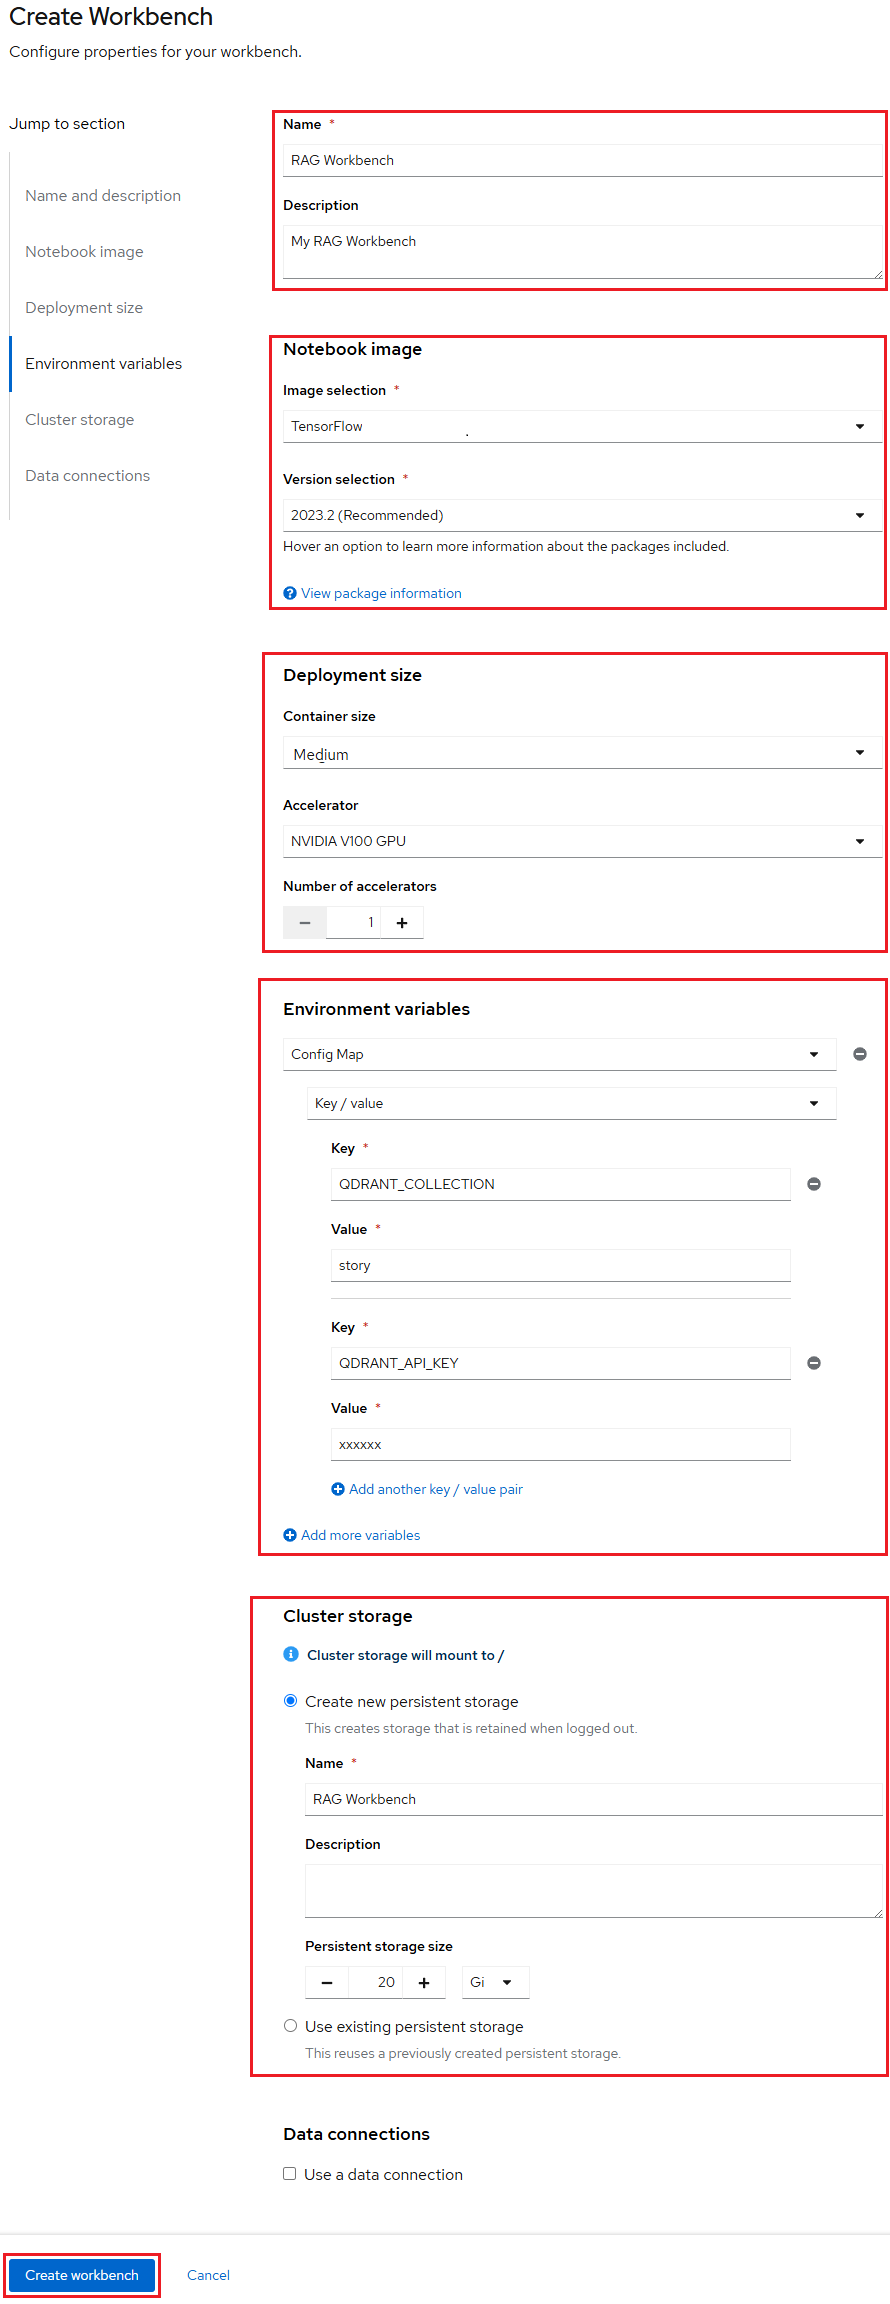
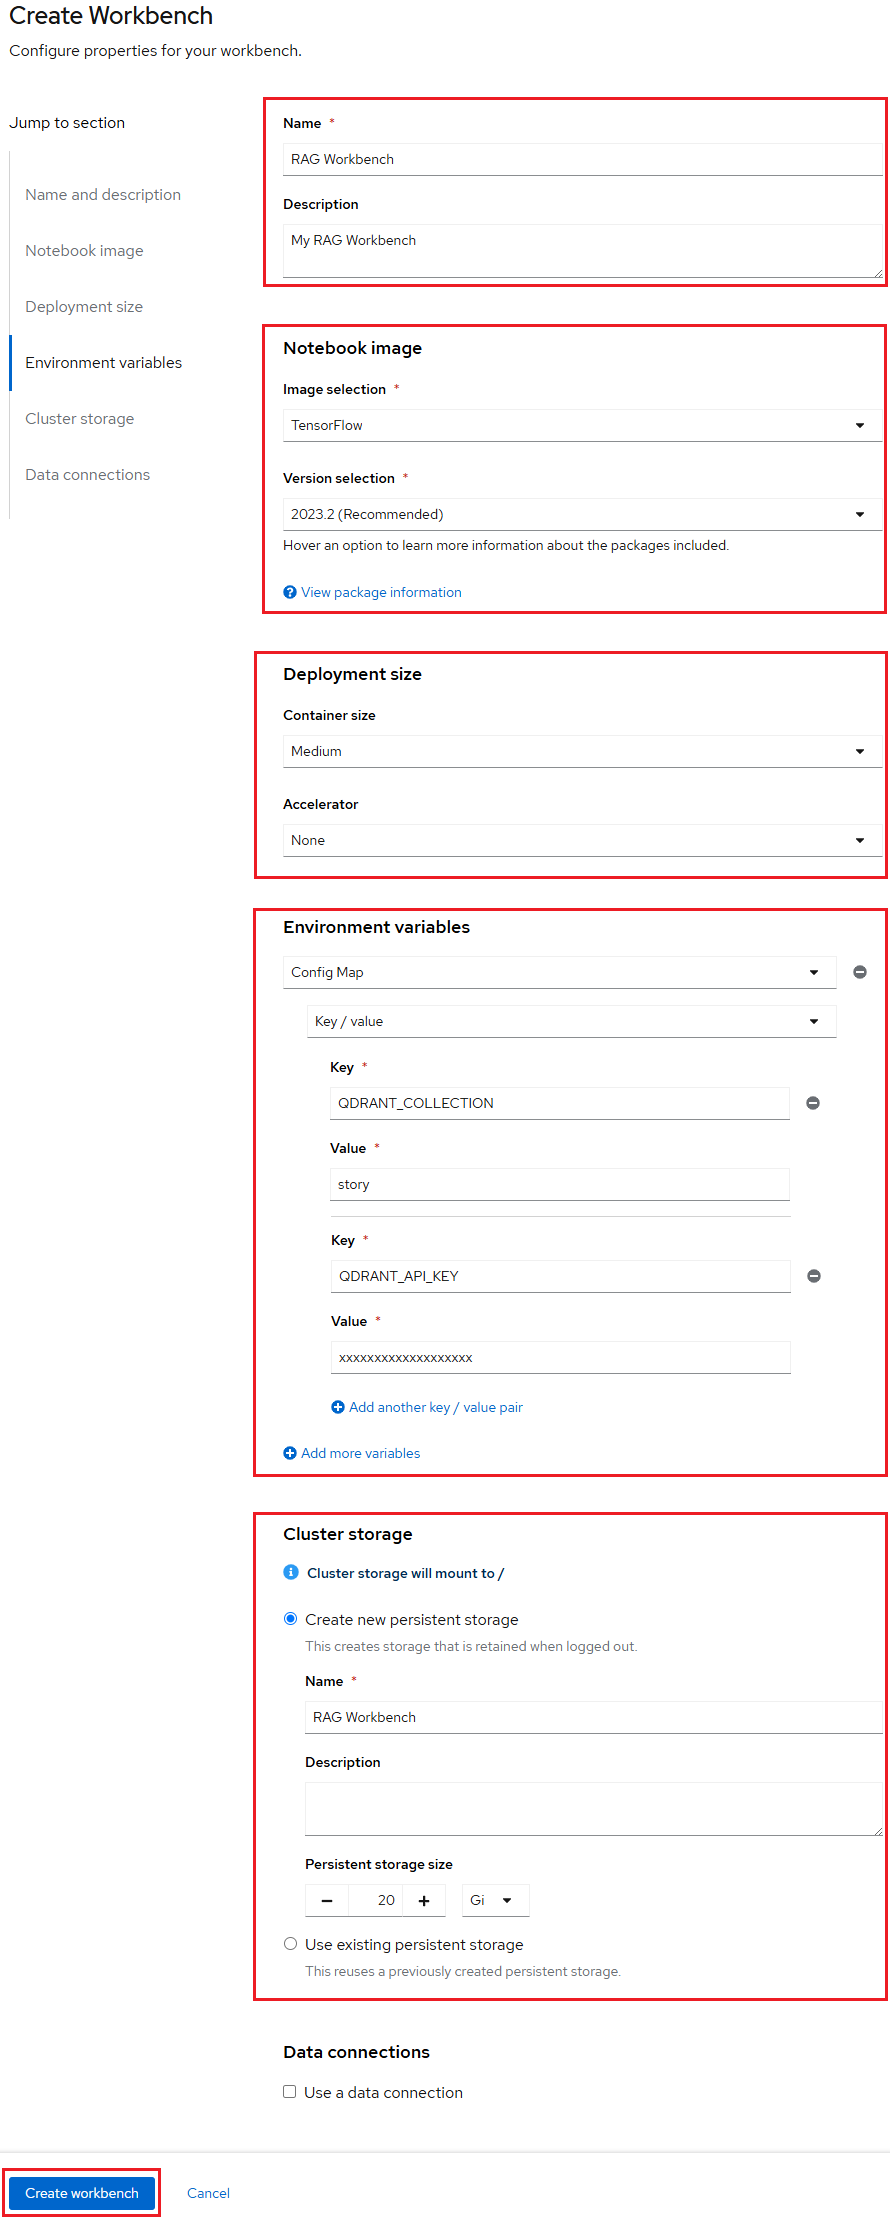
Minio setup info change

diff --git a/docs/openshift-ai/other-projects/fraud-detection-predictive-ai-app.md b/docs/openshift-ai/other-projects/fraud-detection-predictive-ai-app.md
@@ -50,7 +50,7 @@ the NERC OpenShift AI dashboard.
 For this tutorial, you will need **two S3-compatible object storage buckets**,
 such as **NERC OpenStack Container (Ceph)**, **MinIO**, or **AWS S3**. You can
 either use your own storage buckets or run a provided script that automatically
-creates the following **local MinIO storage buckets**:
+creates the following **local S3 storage (MinIO) buckets**:
 
 -   **my-storage** – Use this bucket to store your models and data. You can reuse
 this bucket and its connection for notebooks and model servers.
@@ -62,7 +62,7 @@ this bucket and its connection for notebooks and model servers.
 
 You must also create a connection to each storage bucket. For this tutorial, you
 have two options depending on whether you want to use your own storage buckets
-or a script to create local MinIO storage buckets:
+or a script to create local S3 storage (MinIO) buckets:
 
 #### 1.1. **Using your own S3-compatible storage buckets**
 
@@ -78,7 +78,7 @@ and **Pipeline Artifacts** as shown below:
 
 ![Data Connections](images/data-connections.png)
 
-#### 1.2. **Using a script to set up local MinIO storage**
+#### 1.2. **Using a script to set up local S3 storage (MinIO)**
 
 Alternatively, if you want to run a script that automates the setup by completing
 the following tasks:
@@ -115,7 +115,7 @@ iii. Verify that you selected the correct project.
 
 iv. Copy the following code and paste it into the Import YAML editor.
 
-??? note "Local MinIO storage Creation YAML Script"
+??? note "Local S3 storage (MinIO) Creation YAML Script"
 
     ```yaml
     ---
@@ -224,7 +224,7 @@ iv. Copy the following code and paste it into the Import YAML editor.
             persistentVolumeClaim:
               claimName: minio-pvc
           - emptyDir: {}
-            name: empty  
+            name: empty
     ---
     apiVersion: batch/v1
     kind: Job
@@ -497,7 +497,7 @@ will open the MinIO web console that looks like below:
     The Username and Password for the MinIO web console can be retrieved from
     the Data Connection's **Access key** and **Secret key**.
 
-iii. [Navigate back to the OpenShift AI dashboard](#navigating-to-the-openshift-ai-dashboard)
+iii. Navigate back to the OpenShift AI dashboard.
 
 a. Select Data Science Projects and then click the name of your project, i.e.
 **Fraud detection**.
@@ -545,14 +545,14 @@ buckets: **my-storage** and **pipeline-artifacts** are visible as shown below:
     For that, you need to install and configure the OpenShift CLI by
     following the [setup instructions](../../openshift/logging-in/setup-the-openshift-cli.md#installing-the-openshift-cli).
     Once the OpenShift CLI is set up, execute the following command to
-    install MinIO object storage along with local MinIO storage buckets
+    install MinIO object storage along with local S3 storage (MinIO) buckets
     and necessary data connections:
 
     `oc apply -f https://raw.githubusercontent.com/nerc-project/fraud-detection/main/setup/setup-s3.yaml`
 
 !!! tip "Clean Up"
 
-    To delete all resources if not necessary just run `oc delete -f https://raw.githubusercontent.com/nerc-project/fraud-detection/main/setup/s3-basic.yaml`
+    To delete all resources if not necessary just run `oc delete -f https://raw.githubusercontent.com/nerc-project/fraud-detection/main/setup/setup-s3.yaml`
     or `oc delete all,sa,rolebindings,pvc,job -l app=minio`.
 
 !!! danger "Important Note"
@@ -1210,7 +1210,7 @@ Set these values in the **Environment variables (runtime only)** fields:
 
 **Value:** From the RHOAI projects interface ([from the previous section](#testing-the-model-api)),
 copy the **restUrl** value and add `/v2/models/fraud/infer` to the end. For
-example: `http://modelmesh-serving.nerc-demo-xxx:8008/v2/models/fraud/infer`.
+example: `http://modelmesh-serving.<your-namespace>:8008/v2/models/fraud/infer`.
 
 ![Deployed Model Serving Inference Endpoints](images/deploy-model-inference-endpoints.png)
 

diff --git a/docs/openshift-ai/other-projects/object-detection-app-using-yolo5.md b/docs/openshift-ai/other-projects/object-detection-app-using-yolo5.md
@@ -54,7 +54,7 @@ the NERC OpenShift AI dashboard.
 For this tutorial, you will need **two S3-compatible object storage buckets**,
 such as **NERC OpenStack Container (Ceph)**, **MinIO**, or **AWS S3**. You can
 either use your own storage buckets or run a provided script that automatically
-creates the following **local MinIO storage bucket**:
+creates the following **local S3 storage (MinIO) bucket**:
 
 -   **my-storage** – Use this bucket to store your models and data. You can reuse
 this bucket and its connection for notebooks and model servers.
@@ -73,7 +73,7 @@ as shown below:
 
 ![Data Connections](images/single-data-connection.png)
 
-### 1.2. **Using a script to set up local MinIO storage**
+### 1.2. **Using a script to set up local S3 storage (MinIO)**
 
 Alternatively, if you want to run a script that automates the setup by completing
 the following tasks:
@@ -110,7 +110,7 @@ iii. Verify that you selected the correct project.
 
 iv. Copy the following code and paste it into the Import YAML editor.
 
-??? note "Local MinIO storage Creation YAML Script"
+??? note "Local S3 storage (MinIO) Creation YAML Script"
 
     ```yaml
     ---
@@ -219,7 +219,7 @@ iv. Copy the following code and paste it into the Import YAML editor.
             persistentVolumeClaim:
               claimName: minio-pvc
           - emptyDir: {}
-            name: empty  
+            name: empty
     ---
     apiVersion: batch/v1
     kind: Job
@@ -468,7 +468,7 @@ will open the MinIO web console that looks like below:
     The Username and Password for the MinIO web console can be retrieved from
     the Data Connection's **Access key** and **Secret key**.
 
-iii. [Navigate back to the OpenShift AI dashboard](#navigating-to-the-openshift-ai-dashboard)
+iii. Navigate back to the OpenShift AI dashboard.
 
 a. Select Data Science Projects and then click the name of your project, i.e.
 **Object Detection Workbench**.
@@ -516,7 +516,7 @@ bucket: **my-storage** is visible as shown below:
     For that, you need to install and configure the OpenShift CLI by
     following the [setup instructions](../../openshift/logging-in/setup-the-openshift-cli.md#installing-the-openshift-cli).
     Once the OpenShift CLI is set up, execute the following command to
-    install MinIO object storage along with local MinIO storage buckets
+    install MinIO object storage along with local S3 storage (MinIO) buckets
     and necessary data connections:
 
     `oc apply -f https://raw.githubusercontent.com/nerc-project/object-detection/main/setup/setup-s3.yaml`

diff --git a/docs/openshift-ai/other-projects/RAG-talk-with-your-pdf.md b/docs/openshift-ai/other-projects/RAG-talk-with-your-pdf.md
@@ -47,12 +47,6 @@ be populated with documents.
     [this guide](../../openshift/applications/editing-applications.md#rate-limits-while-pulling-container-image)
     for detailed steps on how to resolve the issue.
 
-### Integrating Qdrant with LangChain
-
-Once you have Qdrant set up, the next step is to integrate it with LangChain.
-The LangChain library provides various tools to interact with vector databases,
-including Qdrant.
-
 ## Deploying as a Workbench Using a Data Science Project (DSP) on NERC RHOAI
 
 **Prerequisites**:
@@ -78,9 +72,8 @@ including Qdrant.
 
     For our example project, let's name it "RAG Workbench". We'll select the
     **TensorFlow** image with Recommended Version (selected by default), choose
-    a **Deployment size** of **Medium**, choose **Accelerator** of
-    **NVIDIA V100 GPU**, **Number of accelerators** as **1**, and allocate
-    a **Cluster storage** space of **20GB**.
+    a **Deployment size** of **Medium**, **Accelerator** as **None** (no GPU is
+    needed for this setup) and allocate a **Cluster storage** space of **20GB**.
 
     !!! tip "Tip"
 
@@ -156,8 +149,14 @@ shown below:
     Update the Ollama's **BASE_URL** and Qdrant's **QDRANT_HOST** in this notebook
     to match your deployment settings.
 
-The AI model, now enriched with additional data, including *The Forgotten Lighthouse
-Book* (located at `llm-on-nerc/examples/notebooks/langchain/datasource/The_Forgotten_Lighthouse_Book.pdf`),
+**Integrating Qdrant with LangChain:**
+
+Once you have Qdrant set up, the next step is to integrate it with LangChain.
+The LangChain library provides various tools to interact with vector databases,
+including Qdrant.
+
+The AI model, now enriched with additional data, including *The Forgotten Lighthouse*
+book pdf that is located at [`llm-on-nerc/examples/notebooks/langchain/datasource/The_Forgotten_Lighthouse_Book.pdf`](https://github.com/nerc-project/llm-on-nerc/blob/main/examples/notebooks/langchain/datasource/The_Forgotten_Lighthouse_Book.pdf),
 can be queried. When asked, *"Who is the starfish, and how do you know?"*, it
 processes the PDF and infers that Grandpa calls Sarah “my little starfish” in his
 letter. Since the model wasn't originally trained on this book, its response

diff --git a/docs/openshift/storage/minio.md b/docs/openshift/storage/minio.md
@@ -23,7 +23,7 @@ to migrate existing applications and workflows to MinIO.
 
 ## Deploying Minio in Your OpenShift Project
 
-You can run a script that automates the setup of a local MinIO storage by completing
+You can run a script that automates the setup of a local S3 storage (MinIO) by completing
 the following tasks:  
 
 -   **Deploys a MinIO instance** in your project namespace.
@@ -53,7 +53,7 @@ the following tasks:
 
 4.  Copy the following code and paste it into the Import YAML editor.
 
-    ??? note "Local MinIO storage Creation YAML Script"
+    ??? note "Local S3 storage (MinIO) Creation YAML Script"
 
         ```yaml
         ---
@@ -162,7 +162,7 @@ the following tasks:
                 persistentVolumeClaim:
                   claimName: minio-pvc
               - emptyDir: {}
-                name: empty  
+                name: empty
         ---
         apiVersion: batch/v1
         kind: Job
@@ -303,13 +303,13 @@ as the **Username** and the **Secret Key** as the **Password**.
 
     Alternatively, you can run a script to install local object storage using the
     OpenShift CLI (`oc`). Once the OpenShift CLI is set up, execute the following
-    command to install MinIO object storage along with local MinIO storage:
+    command to install MinIO object storage along with local S3 storage (MinIO):
 
-    `oc apply -f https://raw.githubusercontent.com/nerc-project/fraud-detection/main/setup/s3-basic.yaml`
+    `oc apply -f https://raw.githubusercontent.com/nerc-project/llm-on-nerc/main/setup/s3-basic.yaml`
 
 !!! tip "Clean Up"
 
-    To delete all resources if not necessary just run `oc delete -f https://raw.githubusercontent.com/nerc-project/fraud-detection/main/setup/s3-basic.yaml`
+    To delete all resources if not necessary just run `oc delete -f https://raw.githubusercontent.com/nerc-project/llm-on-nerc/main/setup/s3-basic.yaml`
     or `oc delete all,sa,rolebindings,pvc,job -l app=minio`.
 
 !!! danger "Important Note"

diff --git a/docs/openshift-ai/data-science-project/explore-the-jupyterlab-environment.md b/docs/openshift-ai/data-science-project/explore-the-jupyterlab-environment.md
@@ -189,7 +189,7 @@ generate and save the model `my-model.keras` within the root folder path of
     download on the NERC OpenStack Object Storage container, as
     [described here](model-serving-in-the-rhoai.md#create-a-data-connection).
     However, you can also set up your own S3 backend to store the model by using
-    a script to configure local MinIO storage, as [explained here](../../openshift/storage/minio.md).
+    a script to configure local S3 storage (MinIO), as [explained here](../../openshift/storage/minio.md).
 
 !!! tip "Visualizing the Machine Learning Model"
     You can use [**Netron**](https://netron.app/), a cross-platform machine learning

diff --git a/docs/openshift-ai/other-projects/how-access-s3-data-then-download-and-analyze-it.md b/docs/openshift-ai/other-projects/how-access-s3-data-then-download-and-analyze-it.md
@@ -17,7 +17,7 @@ and Number of accelerators (GPUs).
 
 For our example project, let's name it "Standard Data Science Workbench". We'll
 select the **Standard Data Science** image, choose a **Deployment size** of **Small**,
-**Accelerator** as **None** (no GPU is needed for this setup) and allocate a
+**Accelerator** as **None** (no GPU is needed for this setup), and allocate a
 **Cluster storage** space of **1GB**.
 
 If this procedure is successful, you have started your Jupyter notebook server.

diff --git a/docs/openshift-ai/other-projects/LLM-client-AnythingLLM.md b/docs/openshift-ai/other-projects/LLM-client-AnythingLLM.md
@@ -51,7 +51,7 @@ chatbot solution.
 
     For our example project, let's name it "AnythingLLM Workbench". We'll select
     the **AnythingLLM** image, choose a **Deployment size** of **Small**, **Accelerator**
-    as **None** (no GPU is needed for this setup) and allocate a **Cluster storage**
+    as **None** (no GPU is needed for this setup), and allocate a **Cluster storage**
     space of **20GB**.
 
     !!! tip "Tip"

diff --git a/docs/other-tools/R/rstudio-server/running-rstudio-on-NERC.md b/docs/other-tools/R/rstudio-server/running-rstudio-on-NERC.md
@@ -16,7 +16,8 @@
 
     For our example project, let's name it "RStudio Workbench". We'll select the
     **RStudio** image, choose a **Deployment size** of **Small**, choose **Accelerator**
-    of **None**, and allocate a **Cluster storage** space of **20Gi** (default).
+    of **None** (no GPU is needed for this setup), and allocate a **Cluster storage**
+    space of **20Gi** (default).
 
     !!! tip "Tip"
 
